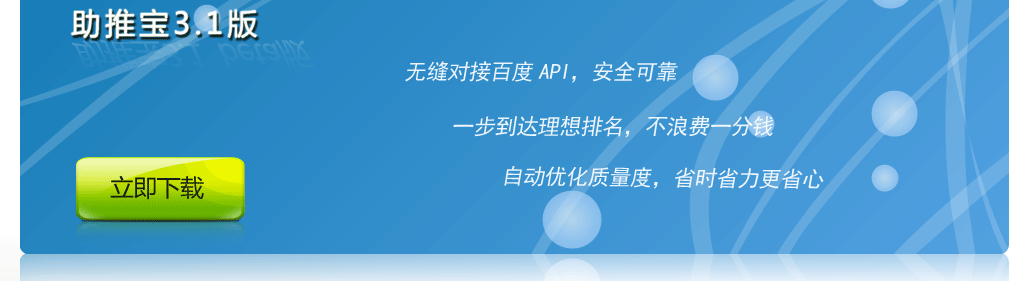
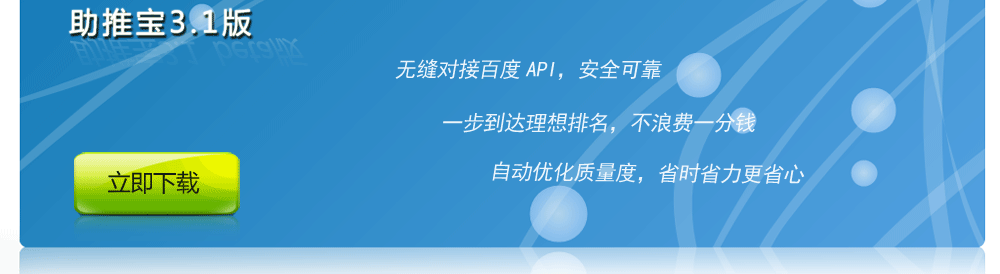
首页模板更改

diff --git a/sem/resource/themes/default/webui/index.htm b/sem/resource/themes/default/webui/index.htm
@@ -11,14 +11,21 @@
 				line-height:normal;
 				text-align:center;
 			}
-
 			body {
-				background:url("./images/topbg.gif") repeat-x scroll 0 0 #EBEBEB;
-				margin-top:1px;
+				background:url("./images/topbg.gif") repeat-x scroll 0 0 #FFFFFF;
+				margin-top:0;
 			}
-
+			img {
+				border:0;
+			}
+			h4 {
+				font-size:16px;
+				font-weight:bold;
+				margin:0;
+				padding:0;
+			}
 			.wrapper {
-				width:1024px;
+				width:1000px;
 				position:relative;
 				margin:auto;
 				text-align:left;
@@ -32,8 +39,8 @@
 
 			.logo {
 				float: left;
-				width : 336px;
-				height: 156px;
+				width : 347px;
+				height: 153px;
 				background: url("./images/logo.gif") no-repeat;
 			}
 
@@ -41,15 +48,15 @@
 				float:right;
 			}
 			.navi {
-				height: 113px;
+				height: 108px;
 			}
 			.b_top {
-				width : 688px;
-				height : 43px;
+				width : 653px;
+				height : 45px;
 				background:url("./images/banner_top.png") no-repeat;
 			}
 			.banner {
-				height : 281px;
+				height : 274px;
 				width : 100%;
 				background:url("./images/banner.png") no-repeat;
 				position:relative;
@@ -64,17 +71,21 @@
 				height:38px;
 			}
 			.neck {
-				height : 42px;
+				height : 41px;
 				width : 100%;
+				text-align: left;
 				background:url("./images/neck_bg.png") no-repeat;
 			}
+			.neck h4 {
+				padding:17px 0 0 40px;
+			}
 			.bottom {
-				height : 289px;
+				height : 282px;
 				width : 100%;
 				background:url("./images/bottom.png") no-repeat;
 			}
 			.foot {
-				margin-top:5px;
+				padding-top:212px;
 				color:#7E7E7E;
 				height:50px;
 				line-height:25px;
@@ -143,12 +154,14 @@
 			</div>
 
 			<div class="neck">
+				<h4>核心功能</h4>
 			</div>
 
-			<div class="bottom"></div>
-
-			<div class="foot">Email: zhutuibao@gmail.com&nbsp;&nbsp;QQ:1172120087<br>
-					&copy; Copyright 2010,　版权所有 zhutuibao.com</div>
+			<div class="bottom">
+				<div class="foot">Email: <a href="mailto:zhutuibao@gmail.com">zhutuibao@gmail.com</a>&nbsp;&nbsp;QQ:1172120087<br>
+					&copy; Copyright 2010,　版权所有 zhutuibao.com
+				</div>
+			</div>
 		</div>
 
 	</div>
